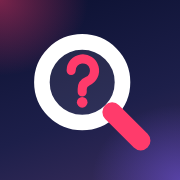
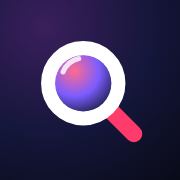
Uygulamayı indir: manifest, mercek simgeleri, yükleme düğmesi ve iPhone/Instagram yönlendirmeleri
Claude-Session: https://claude.ai/code/session_01DgUC4EpyTiTxeH42sTdKUw

diff --git a/index.html b/index.html
@@ -16,6 +16,10 @@
 <meta name="theme-color" content="#0a0b19">
 <link rel="icon" type="image/png" sizes="192x192" href="icons/icon-192.png">
 <link rel="apple-touch-icon" href="icons/apple-touch-icon.png">
+<meta name="mobile-web-app-capable" content="yes">
+<meta name="apple-mobile-web-app-capable" content="yes">
+<meta name="apple-mobile-web-app-title" content="Ne Var Ne Yok">
+<meta name="apple-mobile-web-app-status-bar-style" content="black-translucent">
 <meta name="description" content="Ankara'daki konser, tiyatro, stand-up, opera, bale, çocuk etkinlikleri ve festivaller tek yerde; bilet sitelerinin fiyatları yan yana, etkinlik saatindeki hava tahminiyle.">
 <link rel="stylesheet" href="https://fonts.googleapis.com/css2?family=Poppins:wght@300;800&text=onesidby&display=swap">
 <link rel="stylesheet" href="https://fonts.googleapis.com/css2?family=Bricolage+Grotesque:opsz,wdth,wght@12..96,75..100,200..800&family=Onest:wght@400;500;600;700&family=JetBrains+Mono:wght@500;700&display=swap">
@@ -905,6 +909,29 @@ main,footer,.actf,.hero-bottom{color:var(--onbg)}
 .cs-atolye .a3{right:4%;bottom:0;width:min(46%,420px);height:14px;background:#8a5a2b;box-shadow:0 -3px 0 #b07a40}
 @media (max-width:640px){.cstage{border-radius:20px;height:200px}.cs-tiyatro .a4{width:6%}.cs-n span{font-size:11.5px;padding:5px 10px}}
 @media (prefers-reduced-motion:reduce){.cstage *{animation:none!important}}
+
+/* ===== UYGULAMA İNDİR ===== */
+.apppill[hidden],.appsh[hidden]{display:none}
+.apppill{white-space:nowrap;position:fixed;left:50%;bottom:calc(14px + env(safe-area-inset-bottom));z-index:60;display:flex;align-items:center;gap:4px;padding:6px 6px 6px 8px;border-radius:20px;background:#14163a;border:1px solid rgba(255,255,255,.16);box-shadow:0 10px 30px rgba(0,0,0,.45);transform:translate(-50%,0);transition:transform .45s cubic-bezier(.2,.8,.2,1),opacity .45s;color:#fff}
+.apppill.out{transform:translate(-50%,140%);opacity:0}
+.apppill .ap-go{display:flex;align-items:center;gap:10px;background:none;border:0;color:inherit;padding:0 6px 0 0;cursor:pointer;text-align:left}
+.apppill img{border-radius:9px}
+.apppill b{display:block;font:800 14px var(--f-body)}
+.apppill small{display:block;font:500 11px var(--f-body);opacity:.7}
+.apppill .ap-x{width:30px;height:30px;border-radius:50%;border:0;background:rgba(255,255,255,.1);color:#fff;font-size:13px;cursor:pointer}
+.sp-app,.flinks [data-app]{font-weight:800}
+.sp-app{display:block;width:100%;margin-top:12px;padding:11px 14px;border-radius:12px;border:0;background:var(--nar);color:#fff;font:800 14px var(--f-body);cursor:pointer}
+.appsh{position:fixed;inset:0;z-index:90;display:flex;align-items:flex-end;justify-content:center;background:rgba(5,6,18,.6);opacity:1;transition:opacity .3s}
+.appsh.out{opacity:0}
+.appsh .as-c{position:relative;width:min(440px,100%);margin:0 12px calc(12px + env(safe-area-inset-bottom));padding:26px 22px 22px;border-radius:24px;background:#14163a;color:#fff;text-align:center;transform:translateY(0);transition:transform .35s cubic-bezier(.2,.8,.2,1)}
+.appsh.out .as-c{transform:translateY(40px)}
+.appsh img{border-radius:16px}
+.appsh h3{margin:10px 0 6px;font:800 20px var(--f-disp)}
+.appsh .as-b{font:500 14px/1.5 var(--f-body);color:rgba(255,255,255,.85)}
+.appsh ol{text-align:left;margin:12px 0 4px;padding-left:22px}.appsh li{margin:6px 0}
+.appsh .as-btn{display:inline-block;margin-top:14px;padding:12px 18px;border-radius:14px;background:var(--nar);color:#fff;font:800 14px var(--f-body);text-decoration:none;border:0;cursor:pointer}
+.appsh .as-x{position:absolute;top:12px;right:12px;width:32px;height:32px;border-radius:50%;border:0;background:rgba(255,255,255,.1);color:#fff;cursor:pointer}
+.appsh kbd{display:inline-block;padding:0 6px;border-radius:6px;background:rgba(255,255,255,.14);font:700 13px var(--f-body)}
 </style>
 <script>(function(){try{var D=document.documentElement,p="oto";try{p=localStorage.getItem("nvny-tema")||"oto"}catch(e){}var q=p;
 if(p==="oto"){var r=Math.PI/180,LA=39.93*r,d=Date.now()/864e5+2440587.5-2451545,g=(357.529+.98560028*d)*r,Q=280.459+.98564736*d,L=(Q+1.915*Math.sin(g)+.02*Math.sin(2*g))*r,e=(23.439-3.6e-7*d)*r,ra=Math.atan2(Math.cos(e)*Math.sin(L),Math.cos(L)),dc=Math.asin(Math.sin(e)*Math.sin(L)),H=((18.697374558+24.06570982441908*d)%24*15+32.86)*r-ra,
@@ -991,7 +1018,7 @@ D.dataset.period=q;D.dataset.theme=(q==="sabah"||q==="gun")?"light":"dark";for(v
 <div class="bar">
   <div class="wrap">
     <div class="srow"><input class="search" id="q" type="search" placeholder="Sanatçı, oyun ya da mekân ara" aria-label="Etkinlik ara"><button class="themebtn" id="filtBtn" type="button" aria-expanded="false" aria-controls="selRow"><svg viewBox="0 0 24 24" width="16" height="16" aria-hidden="true"><path d="M3 5h18M6.5 12h11M10 19h4" fill="none" stroke="currentColor" stroke-width="2.2" stroke-linecap="round"/></svg><span class="tl">Filtreler</span><b class="fcount" id="filtN" hidden></b></button><button class="themebtn" id="setBtn" type="button" aria-expanded="false" aria-controls="setP"><svg viewBox="0 0 24 24" width="16" height="16" aria-hidden="true"><path d="M12 8.6a3.4 3.4 0 1 0 0 6.8 3.4 3.4 0 0 0 0-6.8zm8.1 4.6.1-1.2-.1-1.2 2-1.6-2-3.4-2.4.9a8 8 0 0 0-2-1.2L15.3 2h-4l-.4 2.5a8 8 0 0 0-2 1.2l-2.4-1-2 3.5 2 1.6-.1 1.2.1 1.2-2 1.6 2 3.4 2.4-.9a8 8 0 0 0 2 1.2l.4 2.5h4l.4-2.5a8 8 0 0 0 2-1.2l2.4.9 2-3.4z" fill="none" stroke="currentColor" stroke-width="1.8" stroke-linejoin="round"/></svg><span class="tl">Ayarlar</span></button></div>
-    <div class="setp" id="setP" role="dialog" aria-label="Ayarlar" hidden><div class="sp-h"><b>Ayarlar</b><button type="button" class="sp-x" aria-label="Kapat">✕</button></div><div class="sp-l">Tema</div><div class="sp-o" id="themeOpts" role="radiogroup" aria-label="Tema"><button type="button" data-v="oto" role="radio"><i class="sw sw-oto"></i>Otomatik</button><button type="button" data-v="sabah" role="radio"><i class="sw sw-sabah"></i>Sabah</button><button type="button" data-v="gun" role="radio"><i class="sw sw-gun"></i>Gün</button><button type="button" data-v="gunbatimi" role="radio"><i class="sw sw-gb"></i>Gün batımı</button><button type="button" data-v="gece" role="radio"><i class="sw sw-gece"></i>Gece</button></div><p class="sp-n" id="themeNote"></p><label class="sp-t"><span>Hareketli gökyüzü<small>Dalgalanan bayrak, yağmur ve kar</small></span><input type="checkbox" id="animT"><i></i></label></div>
+    <div class="setp" id="setP" role="dialog" aria-label="Ayarlar" hidden><div class="sp-h"><b>Ayarlar</b><button type="button" class="sp-x" aria-label="Kapat">✕</button></div><div class="sp-l">Tema</div><div class="sp-o" id="themeOpts" role="radiogroup" aria-label="Tema"><button type="button" data-v="oto" role="radio"><i class="sw sw-oto"></i>Otomatik</button><button type="button" data-v="sabah" role="radio"><i class="sw sw-sabah"></i>Sabah</button><button type="button" data-v="gun" role="radio"><i class="sw sw-gun"></i>Gün</button><button type="button" data-v="gunbatimi" role="radio"><i class="sw sw-gb"></i>Gün batımı</button><button type="button" data-v="gece" role="radio"><i class="sw sw-gece"></i>Gece</button></div><p class="sp-n" id="themeNote"></p><label class="sp-t"><span>Hareketli gökyüzü<small>Dalgalanan bayrak, yağmur ve kar</small></span><input type="checkbox" id="animT"><i></i></label><button type="button" class="sp-app" data-app>📲 Uygulamayı indir</button></div>
     <div class="row" id="cats" role="group" aria-label="Kategori"></div>
     <div class="row" id="ranges" role="group" aria-label="Zaman"></div>
     <div class="row selects" id="selRow"><label class="sel"><span>Fiyat</span><select id="fPrice"><option value="all">Tümü</option><option value="0-500">500 ₺ altı</option><option value="500-1000">500–1.000 ₺</option><option value="1000-2000">1.000–2.000 ₺</option><option value="2000-99999">2.000 ₺ üstü</option><option value="known">Fiyatı belli olanlar</option></select></label><label class="sel"><span>Mekân</span><select id="fVenue"><option value="all">Tüm mekânlar</option></select></label><label class="sel"><span>Yaş</span><select id="fAge"><option value="all">Hepsi</option><option value="kid">Çocuklara uygun</option><option value="adult">18+</option></select></label><label class="sel"><span>İlçe</span><select id="fIlce"><option value="all">Tümü</option></select></label><label class="sel"><span>Bilet sitesi</span><select id="fSite"><option value="all">Hepsi</option><option>Biletix</option><option>Biletinial</option><option>Sanatçepte</option><option>Bubilet</option><option>tiyatrolar.com.tr</option><option>Bilkent Bilet</option><option>iticket</option></select></label><label class="sel"><span>Sırala</span><select id="fSort"><option value="date">Tarihe göre</option><option value="pa">Fiyat: artan</option><option value="pd">Fiyat: azalan</option></select></label></div>
@@ -1022,10 +1049,12 @@ D.dataset.period=q;D.dataset.theme=(q==="sabah"||q==="gun")?"light":"dark";for(v
   <p class="bd-foot">Bir afişe dokun, bileti açılsın. Günler arasında sağa-sola kaydırarak geçebilirsin.</p>
 </div>
 
+<div class="apppill" id="appPill" hidden><button type="button" class="ap-go" data-app><img src="icons/icon-192.png" alt="" width="34" height="34"><span><b>Uygulamayı indir</b><small>Ne Var Ne Yok telefonunda</small></span></button><button type="button" class="ap-x" aria-label="Kapat">✕</button></div>
+<div class="appsh" id="appSheet" role="dialog" aria-label="Uygulamayı indir" hidden><div class="as-c"><button type="button" class="as-x" aria-label="Kapat">✕</button><img src="icons/icon-192.png" alt="" width="64" height="64"><h3>Ne Var Ne Yok uygulaması</h3><div class="as-b"></div></div></div>
 <footer class="wrap">
   <p class="upd" id="upd"></p>
   <p><b>Ne Var Ne Yok? Ankara</b> bağımsız bir etkinlik rehberidir; etkinlik bilgilerini herkese açık kaynaklardan derler. Bilet satmaz, reklam ve komisyon almaz; her “Bilet al” düğmesi etkinliğin satıldığı sitenin kendi sayfasına gider ve satın alma, iade ve değişiklik o sitenin kurallarına tabidir. Etkinlik adları ve markalar sahiplerine aittir. Kaldırma talepleri: <a href="mailto:contact.openmind.vision@gmail.com">contact.openmind.vision@gmail.com</a></p>
-  <nav class="flinks" aria-label="Site bilgileri"><button type="button" data-p="hakkinda">Hakkında</button><button type="button" data-p="kaynaklar">Veri kaynakları ve güncelleme</button><button type="button" data-p="gizlilik">Gizlilik</button><button type="button" data-p="kosullar">Kullanım koşulları</button><button type="button" data-p="iletisim">İletişim</button></nav>
+  <nav class="flinks" aria-label="Site bilgileri"><button type="button" data-p="hakkinda">Hakkında</button><button type="button" data-p="kaynaklar">Veri kaynakları ve güncelleme</button><button type="button" data-p="gizlilik">Gizlilik</button><button type="button" data-p="kosullar">Kullanım koşulları</button><button type="button" data-p="iletisim">İletişim</button><button type="button" data-app>📲 Uygulamayı indir</button></nav>
   <div class="byos" aria-label="by oneside"><span class="byos-by">by</span><span class="byos-card"><svg viewBox="0 0 537 537" aria-hidden="true"><rect x="261" y="0" width="14" height="537"/><rect x="0" y="261" width="537" height="14"/><path d="M275 104C275 214 318 261 428 261H275Z"/><path d="M261 434C261 320 222 275 99 275H261Z"/></svg><span class="byos-w">one<b>side</b></span></span></div>
 </footer>
 <dialog class="sheet" id="sheet" aria-labelledby="sheetT"><div class="sh-in"><div class="sh-top"><div class="sh-brand">Ne Var Ne Yok? <span>Ankara</span></div><button class="sh-x" type="button" aria-label="Kapat">✕</button></div><div class="sh-body" id="sheetB"></div></div></dialog>

diff --git a/app.js b/app.js
@@ -904,3 +904,35 @@ document.getElementById("heroLogo")?.classList.add("rest");
   const cnt=()=>{let k=0;row.querySelectorAll("select").forEach(s=>{if(s.id!=="fSort"&&s.value!=="all")k++});fn.hidden=!k;fn.textContent=k};
   row.addEventListener("change",cnt);document.addEventListener("click",()=>setTimeout(cnt,0));cnt();})();
 
+
+/* UYGULAMAYI İNDİR: Android'de Chrome'un kendi yükleme penceresi (gerçek uygulama olarak kurulur, uyarı yok; service worker gerekmez),
+   iPhone'da "Ana Ekrana Ekle" adımları, Instagram gibi uygulama içi tarayıcılarda "tarayıcıda aç" yönlendirmesi.
+   Telefonda giriş bittikten birkaç saniye sonra altta küçük bir düğme çıkar; kapatılırsa 7 gün görünmez. Uygulama olarak açıldıysa hiçbiri görünmez. */
+(()=>{const ua=navigator.userAgent,isApp=matchMedia("(display-mode: standalone)").matches||navigator.standalone===true;
+  if(isApp){document.querySelectorAll("[data-app]").forEach(b=>b.hidden=true);return}
+  const ios=/iPhone|iPad|iPod/.test(ua)||(/Macintosh/.test(ua)&&navigator.maxTouchPoints>1),and=/Android/i.test(ua),
+    inApp=/Instagram|FBAN|FBAV|FB_IAB|FBIOS|Line\/|TikTok|musical_ly|Twitter|Snapchat|LinkedInApp/i.test(ua),samsung=/SamsungBrowser/i.test(ua),
+    P=document.getElementById("appPill"),S=document.getElementById("appSheet"),B=S.querySelector(".as-b");
+  let dp=null,done=false;
+  addEventListener("beforeinstallprompt",e=>{e.preventDefault();dp=e});
+  addEventListener("appinstalled",()=>{done=true;hidePill();sheet("ok")});
+  const url=location.href.split("#")[0];
+  const body=k=>k==="ok"?`<p>Kuruldu! Ne Var Ne Yok artık uygulamalarının arasında.</p>`
+    :k==="inapp"?(and?`<p>Bu sayfa Instagram'ın içinde açıldı; uygulama buradan kurulamıyor.</p><a class="as-btn" href="intent://${location.host}${location.pathname}#Intent;scheme=https;package=com.android.chrome;end">Chrome'da aç</a><p style="margin-top:12px;font-size:12px;opacity:.75">Açılınca "Uygulamayı indir"e yeniden dokun.</p>`
+      :`<p>Bu sayfa Instagram'ın içinde açıldı. Uygulamayı kurmak için:</p><ol><li>Sağ üstteki <kbd>⋯</kbd> menüsüne dokun</li><li><b>"Tarayıcıda aç"</b>ı seç (Safari)</li><li>Açılınca "Uygulamayı indir"e yeniden dokun</li></ol>`)
+    :k==="ios"?`<p>iPhone'da üç adımda kurulur:</p><ol><li>Alttaki <kbd>Paylaş</kbd> simgesine (kare ve yukarı ok) dokun</li><li><b>"Ana Ekrana Ekle"</b>yi seç</li><li>Sağ üstte <b>"Ekle"</b>ye dokun</li></ol><p style="font-size:12px;opacity:.75">Ne Var Ne Yok simgesiyle ana ekranına gelir, tam ekran açılır.</p>`
+    :k==="samsung"?`<p>Samsung İnternet'te:</p><ol><li>Alttaki <kbd>☰</kbd> menüye dokun</li><li><b>"Sayfayı ekle"</b> → <b>"Ana ekran"</b>ı seç</li></ol><p style="font-size:12px;opacity:.75">Chrome'da açarsan tek dokunuşla kurulur.</p>`
+    :and?`<p>Chrome'da:</p><ol><li>Sağ üstteki <kbd>⋮</kbd> menüye dokun</li><li><b>"Uygulamayı yükle"</b> ya da <b>"Ana ekrana ekle"</b>yi seç</li></ol>`
+    :`<p>Bilgisayarda adres çubuğunun sağındaki <kbd>⊕ Yükle</kbd> simgesine tıkla. Telefonda açarsan tek dokunuşla kurulur:</p><p><b>${location.host}</b></p>`;
+  function sheet(k){B.innerHTML=body(k);S.hidden=false;S.classList.add("out");requestAnimationFrame(()=>requestAnimationFrame(()=>S.classList.remove("out")))}
+  function closeSheet(){S.classList.add("out");setTimeout(()=>{S.hidden=true},300)}
+  S.addEventListener("click",e=>{if(e.target===S||e.target.closest(".as-x"))closeSheet()});
+  async function go(){hidePill();
+    if(dp){const d=dp;dp=null;try{await d.prompt();const r=await d.userChoice;if(r.outcome==="accepted")return}catch{}}
+    sheet(inApp?"inapp":ios?"ios":samsung?"samsung":"and")}
+  document.addEventListener("click",e=>{const b=e.target.closest("[data-app]");if(b){e.preventDefault();go()}});
+  function hidePill(){if(P.hidden)return;P.classList.add("out");setTimeout(()=>{P.hidden=true},450)}
+  P.querySelector(".ap-x").onclick=()=>{hidePill();try{localStorage.setItem("nvny-app-x",String(Date.now()))}catch{}};
+  let x=0;try{x=+localStorage.getItem("nvny-app-x")||0}catch{}
+  if((ios||and)&&Date.now()-x>7*864e5)afterIntro(()=>setTimeout(()=>{if(done)return;P.hidden=false;P.classList.add("out");requestAnimationFrame(()=>requestAnimationFrame(()=>P.classList.remove("out")))},4000));
+})();

diff --git a/CLAUDE.md b/CLAUDE.md
@@ -31,6 +31,7 @@ Bozulmaması gereken kurallar:
 - **Rozetler ve filtreler:** `isNew` ve `dropOf` rozetleri (Yeni / Fiyatı %… düştü) ve "Yeni eklenenler" filtresi kalır.
 - **Site ayarları:** `window.NVNY_SITE` (iletişim, Instagram, repo) `index.html` içinde durur.
 - **Service worker yok:** `app.js` eskilerini kaldırır. `sw.js` ekleme.
+- **Uygulama olarak indirme (13.11.2026):** `manifest.webmanifest` + sitede "📲 Uygulamayı indir" (altta açılan düğme, Ayarlar, alt bilgi; `data-app`). Android Chrome'da tarayıcının kendi yükleme penceresi açılır, uygulama gerçek uygulama olarak kurulur (service worker gerekmez). iPhone'da "Ana Ekrana Ekle" adımları; Instagram gibi uygulama içi tarayıcılarda "Chrome'da aç / Tarayıcıda aç". Uygulama olarak açılınca düğmeler gizlenir. Simge sitedeki cam mercektir (`icons/`, soru işareti yok). Mağaza dışı APK kullanıcı uyarı gördüğü için tercih edilmedi.
 - **Giriş ekranı sırası:** `afterIntro()` / `introDone()` ile giriş ekranı bitene kadar ağır işler bekletilir.
 - Bot korumalı sitelerin (Bubilet, Passo, Biletino, Mobilet) korumasını aşmaya çalışma. API anahtarı gerektiren hiçbir şey ekleme. Yasal ortaklık önerme.
 
